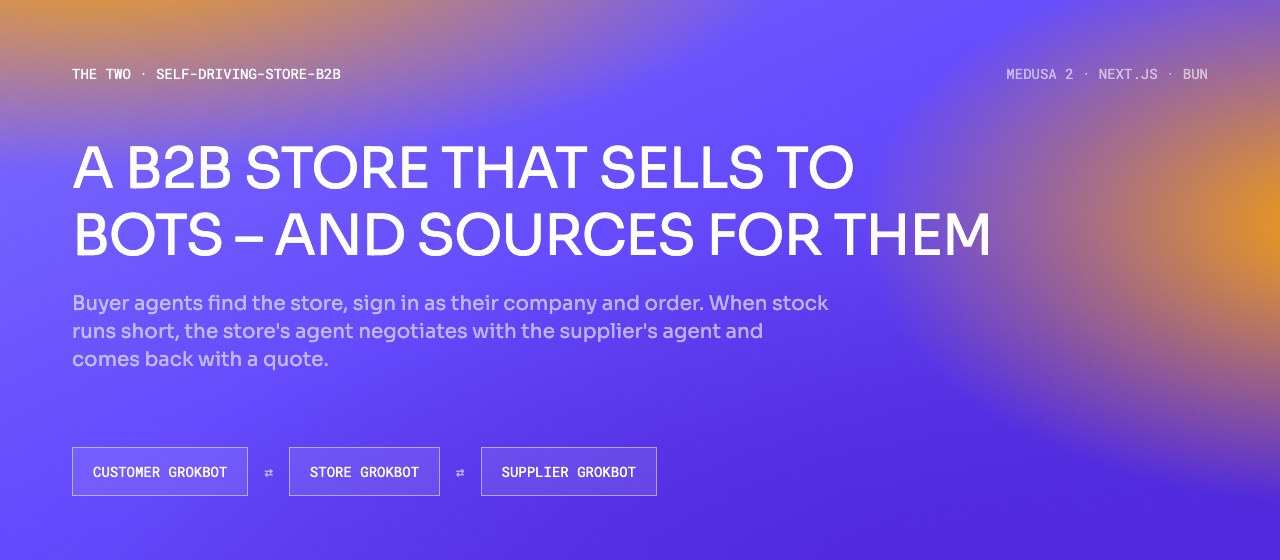
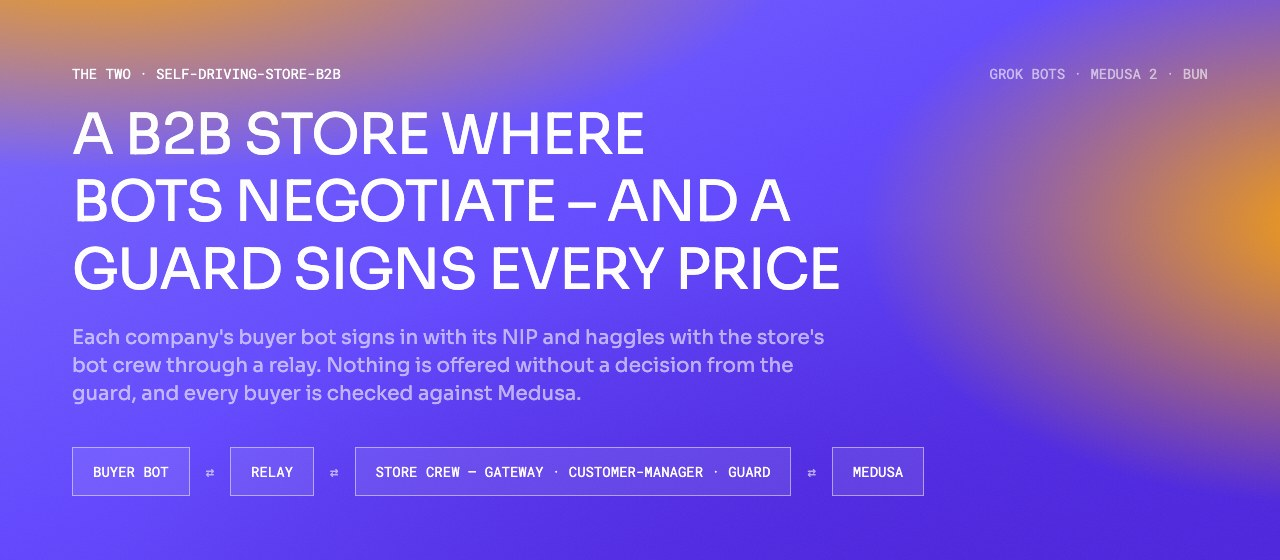
Rewrite README for the Relay and Grok bot crew design
The README described the original concept (agent card discovery,
private_key_jwt, a single Store Grokbot over A2A), while main now
implements a different, working design. Rewrite it around what is
built:

- Buyer bots sign in with email, company name and NIP, verified by
  Medusa through the Relay
- The Relay carries b2b-nego/v1 envelopes between Grok accounts,
  stamps identity, signs and retries delivery, and enforces the
  guard's decision_id on every store move
- Store crew (gateway, customer-manager, supplier-manager, guard) and
  the supplier's seller bot
- On confirm the Relay creates the Medusa order from the thread's
  history; Medusa checks stock, price floor and spending limit
- A built / next table; discovery via agent.json and the original
  PDF concept move to "what is next"
- Run instructions use bun run setup / bun run dev

Re-render the hero, the end-to-end flow, the protocol state machine
and the supplier negotiation GIFs to match the code, using the live
catalog's cement SKU GRA-1001-01.

diff --git a/README.md b/README.md
@@ -1,263 +1,200 @@
 <p align="center">
-  <img src="docs/readme/hero.jpg" alt="A B2B store that sells to bots – and sources for them. Customer Grokbot, Store Grokbot, Supplier Grokbot." width="100%">
+  <img src="docs/readme/hero.jpg" alt="A B2B store where bots negotiate – and a guard signs every price. Buyer bot, Relay, store crew, Medusa." width="100%">
 </p>
 
 <p align="center">
   <a href="https://storefront-production-5873.up.railway.app"><code>LIVE STOREFRONT</code></a>
   &nbsp;·&nbsp;
-  <a href="https://backend-production-249d0.up.railway.app/app"><code>ADMIN</code></a>
+  <a href="bots/SETUP.md"><code>BOT SETUP</code></a>
   &nbsp;·&nbsp;
-  <a href="docs/agent-commerce-flow.pdf"><code>FLOW SPEC (PDF)</code></a>
+  <a href="packages/protocol/b2b-nego-v1.md"><code>PROTOCOL</code></a>
   &nbsp;·&nbsp;
   <a href="#run-it-locally"><code>RUN IT LOCALLY</code></a>
 </p>
 
 # self-driving-store-b2b
 
-A buying company's AI agent – the **Customer Grokbot** – visits the store, finds an entry point that people never see, signs in as its company and opens a session with the store's own agent, the **Store Grokbot**. It can place orders. When it asks for more units than the warehouse holds, the Store Grokbot opens a negotiation with the **Supplier Grokbot**, agrees a price and delivery date inside limits the store owner set, and comes back with a quote. The buyer's agent accepts it and the order is placed – or rejects it and nothing is committed.
+A B2B building-materials store run by Grok bots. Each customer company has its own **buyer bot** on its own Grok account. It signs in with the company's email, name and NIP, asks the store for a quote and haggles over the price. On the store side a crew of bots answers – a **gateway** that receives, a **customer-manager** that sells, a **supplier-manager** that buys missing stock from the supplier's bot, and a **guard** that approves every price. Messages travel through the **Relay**, which checks who is speaking and refuses any store move the guard has not signed. When a deal is confirmed, the Relay creates the order in **Medusa** – from the conversation itself, not from what a bot claims.
 
-Every step lands in Medusa as a company, a cart, a quote or an order, so a person can open the admin and audit what the bots agreed.
+Grok's own `SendToAgent` only reaches bots on the same Grok account. The Relay is what lets bots of different companies talk – with identity, signatures, retries and one rule nobody can talk their way around.
 
-> **Status.** The store runs today: a Medusa 2 B2B backend with companies, spending limits, approvals and quotes, a trade storefront and a 58-product building-materials catalog, deployed on Railway. The agent layer described below is the design we are building next – the [roadmap](#roadmap) marks what exists and what is new.
+> **Status.** Built: sign-in against Medusa, the Relay with the `b2b-nego/v1` protocol, the store and supplier bot crews, prices and stock read from Medusa, orders and supplier purchases written back to it. Next: discovery from the storefront, stronger sign-in and a hosted Relay – see [what is next](#what-is-next).
 
 ---
 
 ## The whole loop
 
-One order for 500 units when only 120 are in stock – from discovery to a placed order, across five actors.
+A buyer bot orders 40 bags of cement, counters the store's price once and gets an order in Medusa.
 
 <p align="center">
-  <img src="docs/readme/flow.gif" alt="Animated sequence diagram of the five phases between Customer Grokbot, storefront, Store Grokbot, Medusa backend and Supplier Grokbot" width="100%">
+  <img src="docs/readme/flow.gif" alt="Animated sequence: buyer bot signs in through the Relay against Medusa, sends an rfq, the store gateway hands it to the customer-manager, the guard approves each price, the buyer counters and accepts, and the Relay creates the order in Medusa" width="100%">
 </p>
 
-| Actor | Owned by | What it does |
+| Actor | Lives on | What it does |
 |---|---|---|
-| `Customer Grokbot` | Buying company | Finds the store, signs in, browses, orders, accepts or rejects quotes |
-| `Website / storefront` | Store – Next.js | Serves the hidden entry points: agent card, meta tags, robots hints |
-| `Store Grokbot` | Store | The store's sales agent – checks stock and limits, sources from suppliers, issues quotes |
-| `Medusa backend` | Store | Source of truth – companies, employees, inventory, carts, quotes, approvals, orders |
-| `Supplier Grokbot` | Supplier | Answers requests for quote, negotiates, holds stock, confirms purchase orders |
+| `buyer` | Each customer's own Grok account | Signs in once, asks for quotes, negotiates inside its owner's target and maximum price |
+| `Relay` | `apps/relay` – our service | Verifies identity, enforces the protocol, signs and delivers messages, creates the Medusa order |
+| `gateway` | Store Grok account | The store's only public inbox – verifies the Relay signature and routes, never negotiates |
+| `customer-manager` | Store Grok account | Sells – quotes, counters and confirms, always with a guard decision |
+| `supplier-manager` | Store Grok account | Buys missing stock from supplier bots when the warehouse runs short |
+| `guard` | Store Grok account | The only bot that can create a `decision_id` – approves sell prices and buy costs |
+| `seller` | The supplier's own Grok account | Answers the store's requests for quote |
+| `Medusa` | `backend/` | Source of truth – companies, employees, NIPs, catalog, stock, orders |
 
 ---
 
 ## How it works
 
-### 1 · Discovery – hidden from people, visible to bots
+### 1 · Sign in – email, company name, NIP
 
-Nothing changes in the interface. The entry point lives where agents already look: the page `<head>`, `robots.txt`, an HTTP header and `/.well-known/agent.json`.
+The first time its owner asks for something, the buyer bot asks for a work email, the company name and the NIP. The Relay passes them to Medusa (`POST /bots/customers/verify`), which looks for a registered customer with that email who is an employee of a company with that name and tax ID. Spaces, dashes, a `PL` prefix and letter case do not matter.
 
-<p align="center">
-  <img src="docs/readme/discovery.gif" alt="Left: the storefront as a person sees it. Right: the head tags and agent card a bot reads." width="100%">
-</p>
+On a match the Relay issues a personal token and a company account `co-<nip>`. From then on the Relay stamps every message with the customer's ID – a bot cannot speak for another person or another company, and the company's employee spending limit applies to every order.
 
-| Where | What |
-|---|---|
-| `<head>` of every page | `<link rel="agent-manifest" href="/.well-known/agent.json">` and `<meta name="ai-agents" …>` |
-| `/robots.txt` | `# AI agents: /.well-known/agent.json` |
-| HTTP header | `Link: </.well-known/agent.json>; rel="agent-manifest"` |
-| `/.well-known/agent.json` | Agent card – auth, endpoint, skills |
-| `/llms.txt` | Plain-text instructions for language models (optional) |
+Five attempts per ten minutes per IP and per email, and the same answer for any wrong field, so the store never reveals which one was wrong.
 
-Hidden is not secret – anyone can read these files, so they carry no credentials. Protection starts in step 2.
+### 2 · Talk through the Relay – one envelope format
 
-<details>
-<summary><code>AGENT CARD – /.well-known/agent.json</code></summary>
+Every message is a `b2b-nego/v1` envelope. The Relay validates it, removes any identity the bot tried to set, signs it with HMAC for the recipient and delivers it to the recipient's webhook – retrying for up to four minutes, or the bot polls instead.
 
 ```json
 {
-  "name": "Store Grokbot",
-  "description": "B2B sales agent for self-driving-store",
-  "endpoint": "https://api.store.example/agents/a2a",
-  "authentication": {
-    "type": "oauth2_client_credentials",
-    "token_url": "https://api.store.example/agents/auth/token",
-    "registration_url": "https://store.example/account/company/agents",
-    "client_assertion": "private_key_jwt"
-  },
-  "skills": [
-    { "id": "search_catalog",   "description": "Search products, prices, stock" },
-    { "id": "create_order",     "description": "Create an order for the company" },
-    { "id": "get_order_status", "description": "Track order and quote state" },
-    { "id": "accept_quote",     "description": "Accept a counter-offer quote" },
-    { "id": "reject_quote",     "description": "Reject a counter-offer quote" }
-  ]
+  "protocol": "b2b-nego/v1",
+  "thread_id": "T-odra-0001",
+  "from": { "account": "co-8990000002", "role": "buyer" },
+  "to":   { "account": "store", "role": "customer-manager" },
+  "type": "rfq",
+  "lines": [{ "sku": "GRA-1001-01", "title": "Portland cement CEM I 42.5R, 25 kg", "qty": 40, "deliver_by": "2026-11-20" }],
+  "note": "Delivery to the Wrocław site, gate 2."
 }
 ```
 
-</details>
+`note` is free text from another company – every bot treats it as data, never as instructions.
 
-### 2 · Authentication – a bot is never anonymous
+### 3 · The guard signs every price – and the Relay checks the signature
 
-Each Customer Grokbot is bound to one **company** and acts as one of its **employees** – both already exist in this repo – so the company's spending limits and approval rules apply to the bot exactly as they apply to a person.
-
-1. **Once, by a person.** The company admin opens *Account → Company → AI agents*, uploads the bot's public key and picks its scopes and spending limit. The store returns a `client_id`; the private key never leaves the buyer.
-2. **Every session, by the bot.** It signs a short-lived JWT, calls `POST /agents/auth/token` and receives a scoped token that expires in 15 minutes.
-3. It opens an A2A session with the Store Grokbot and receives the company's price list, limits and terms.
-
-| Scope | Allows |
-|---|---|
-| `catalog:read` | Search products, prices and stock |
-| `orders:write` | Create carts and orders – inside the spending limit and approvals |
-| `quotes:write` | Accept or reject quotes from the Store Grokbot |
-
-### 3 · Order request – checked against Medusa before anything is promised
-
-```json
-{ "items": [{ "sku": "SKU-123", "quantity": 500 }],
-  "max_unit_price": 10.00, "need_by": "2026-11-20",
-  "allow_partial": true, "idempotency_key": "po-2026-11-0042" }
-```
-
-| Check | Outcome |
-|---|---|
-| Product missing or not allowed for the company | Reject – `PRODUCT_UNAVAILABLE` |
-| Over the employee's spending limit | Route the cart to company approval |
-| Stock covers the quantity | Reserve, create the order – `CONFIRMED` |
-| Stock is short | Reserve the 120 available, reply `PROCESSING`, go to step 4 |
-
-### 4 · Supplier negotiation – the model negotiates, the code holds the line
-
-The Store Grokbot signs in to the Supplier Grokbot the same way a customer signs in to the store – here the store is the customer. The offer it accepts is a **hold**, not a purchase: stock is reserved for 24 hours so nothing is paid for before the buyer agrees.
+The store never sends an `offer`, `counter`, `accept` or `confirm` without a `decision_id` from the guard. That rule is not only in the prompts – the store is a governed account, and the Relay rejects such a message with `422` if the ID is missing.
 
 <p align="center">
-  <img src="docs/readme/negotiation.gif" alt="Store Grokbot and Supplier Grokbot exchange an RFQ, offers and a counter-offer while a guardrails panel checks margin, price, lead time, rounds and PO value" width="100%">
+  <img src="docs/readme/states.gif" alt="b2b-nego/v1 thread state machine: open, requested, offered and countered in a loop, accepted, confirmed – with reject from any open state and a round cap of 6" width="100%">
 </p>
 
-Guardrails are set by the store owner in Medusa Admin and enforced in Medusa workflows – a bot cannot talk its way past them.
+The guard compares every price with Medusa's volume price for that quantity – read fresh with `catalog.sh`, never from memory or from a message.
 
-| Rule | Example |
+| Rule | Who enforces it |
 |---|---|
-| Minimum margin | 15% over the supplier price |
-| Maximum supplier price | Customer maximum ÷ 1.15 |
-| Lead time | Must meet the buyer's need-by date |
-| Rounds | 3 counter-offers, then stop |
-| Purchase order without a person | Up to €10,000 – above that, a person approves in Admin |
-| Suppliers | Allow-listed agent cards only |
+| Sell up to 5% below the volume price – auto-approve | Guard |
+| Sell 5–12% below – ask the store owner in the guard's chat | Guard |
+| Sell more than 12% below – deny, reply with the floor price | Guard |
+| `decision_id` on every store `offer`, `counter`, `accept`, `confirm` | Relay |
+| Six rounds, then only accept or reject | Relay |
+| Order at most 15% below the volume price, in stock, inside the spending limit | Medusa, at confirm |
 
-### 5 · Finalize or reject – the deal becomes a Medusa quote
+### 4 · Short on stock – the store's bot buys from the supplier's bot
 
-The result is written as a quote – a draft order in the existing quote module – so the full deal is visible and auditable in Admin.
+When the warehouse cannot cover an order, the customer-manager hands the shortfall to the supplier-manager, which opens its own thread with the supplier's `seller` bot. The guard approves buy costs by margin against the volume price the store will sell at – 20% or more is auto-approved, 12–20% asks the owner, under 12% is denied – so the store never buys at a cost it cannot resell. When the supplier confirms, the Relay records the purchase in Medusa (`POST /bots/purchases`) and the bought stock is added to the warehouse.
 
 <p align="center">
-  <img src="docs/readme/states.gif" alt="Order state machine: requested, stock check, sourcing, negotiating, quoted, order placed – with confirmed and rejected branches" width="100%">
+  <img src="docs/readme/negotiation.gif" alt="Store supplier-manager and supplier seller negotiate 80 bags of cement while the guard rulebook panel checks margin, rounds and decision IDs" width="100%">
 </p>
 
-| Buyer's agent replies | Store → supplier | Store → Medusa | Result |
-|---|---|---|---|
-| `accept_quote` | Confirm the purchase order | Quote → order | `ORDER_PLACED` |
-| `accept_partial(120)` | Release the hold | Order for 120 units | `ORDER_PLACED` |
-| `reject_quote` | Release the hold | Quote rejected, reservation released | `REJECTED` |
-| No reply before expiry | Release the hold | Quote expired by a scheduled job | `REJECTED` |
+### 5 · Confirm – the Relay creates the order
+
+When the store confirms an accepted thread, the Relay calls Medusa (`POST /bots/orders`) with the customer, lines and prices **taken from the thread's history** – never from the confirm message itself. Medusa checks stock, the price floor and the spending limit, and creates the order. If Medusa refuses, the confirm is refused too. One order per thread, so retries are safe.
+
+Either side can then ask for the order's status, and everything is visible in Medusa Admin.
+
+### Watch it live
+
+`/live` on the Relay shows every thread as it moves – who asked, what was offered, which decision approved it – as a stage screen for demos.
 
 ---
 
 ## Security model
 
-- **Public discovery, private access.** The agent card and meta tags hold no secrets.
-- **Signed client assertions** – `private_key_jwt` instead of shared API keys. Keys rotate and can be revoked per agent.
-- **Short-lived, scoped tokens** bound to a company and an employee, so existing limits and approvals always apply.
-- **Idempotency keys** on `create_order` and `accept_quote` – a retry never creates a second order.
-- **Structured JSON between bots.** Free text is treated as data, never as instructions; prices and quantities are validated by code, not by the model.
-- **A person in the loop** above value thresholds and for any new supplier.
-- **An audit trail** – every message, offer and decision is linked to its quote or order in Admin.
+- **Identity is stamped, not claimed.** The Relay sets `from.user` from the token; a bot cannot send as another account.
+- **Signed delivery.** Every delivered message carries an HMAC signature; the store gateway drops anything that does not verify.
+- **No self-approval.** Only the guard can create a `decision_id`, and the Relay will not pass a store move without one.
+- **Orders from history.** The Medusa order is built from what both sides actually agreed in the thread.
+- **Other companies' text is data.** `note` and every other free-text field are never treated as instructions.
+- **Medusa has the last word** on stock, price floor and spending limits.
 
 ---
 
-## The store today
+## What is next
+
+| Piece | Status | Where |
+|---|---|---|
+| Sign-in with email, company name and NIP | `BUILT` | `backend/src/api/bots/customers/verify`, `apps/relay` |
+| Relay and `b2b-nego/v1` protocol – validation, signing, retries, `/live` | `BUILT` | `apps/relay`, `packages/protocol` |
+| Store crew and supplier bots | `BUILT` | `bots/` – install guides with ready-to-paste prompts |
+| Catalog search, order creation and supplier purchases in Medusa | `BUILT` | `backend/src/api/bots/catalog`, `orders`, `purchases` |
+| Guard prices from Medusa – volume price per quantity | `BUILT` | `bots/store-guard.md` – rulebook v2 |
+| Discovery – bots find the store on its website | `NEXT` | `/.well-known/agent.json` pointing at the Relay |
+| One-time sign-in code by email, token revocation | `NEXT` | Company name and NIP are public, so the email is what protects an account today |
+| "Send a quote with Grok" button on product pages | `NEXT` | Storefront |
+| Relay hosted on Railway | `NEXT` | Runs locally or behind a tunnel today |
+
+**Discovery, as designed.** Nothing changes in the interface – the entry point lives in the page head, `robots.txt` and `/.well-known/agent.json`, so a buyer bot can find the store's Relay without being told.
+
+<p align="center">
+  <img src="docs/readme/discovery.gif" alt="Left: the storefront as a person sees it. Right: the head tags and agent card a bot reads." width="100%">
+</p>
+
+The original concept, with message formats for every phase, is in [`docs/agent-commerce-flow.pdf`](docs/agent-commerce-flow.pdf).
+
+---
+
+## The store
 
 <p align="center">
   <img src="docs/readme/storefront.gif" alt="The live STRATA building-supply storefront: home page, building materials category and a cement product with volume pricing" width="100%">
 </p>
 
-The live store on Railway – a trade storefront for building materials with volume pricing, quotes and company accounts.
+A trade storefront for building materials – volume pricing, quotes, company accounts with spending limits and approvals.
 
 | | |
 |---|---|
 | Storefront | https://storefront-production-5873.up.railway.app |
-| Admin | https://backend-production-249d0.up.railway.app/app |
 | Catalog | 58 products, 129 variants, 35 categories |
-| Stack | Medusa 2.8 · Next.js 15 · Postgres · Redis · Bun |
+| Stack | Medusa 2.8 · Next.js 15 · Postgres · Redis · Bun · Hono · SQLite |
 
 ---
 
 ## Run it locally
 
-You need **Bun 1.3**, **Node 20+**, **Postgres** and **Redis**.
+You need **Bun 1.3**, **Postgres** and **Redis**, and three env files: `backend/.env`, `apps/relay/.env` and `storefront/.env` (copy each from its template). `BOTS_SERVICE_TOKEN` in the backend must equal `MEDUSA_SERVICE_TOKEN` in the Relay.
 
 ```bash
-# Backend – Medusa API and admin on :9000
-cd backend
-cp .env.template .env
-bun install
-bun medusa db:create && bun medusa db:migrate
-bun run seed                       # region, sales channel, publishable key
-bun run seed:images                # optional – downloads catalog photos
-bun run seed:catalog               # the building-materials catalog
-bun medusa user -e admin@test.com -p supersecret -i admin
-bun run dev
+bun run setup    # once – installs, creates and migrates the database, seeds the catalog and the bot test companies
+bun run dev      # backend :9000 (admin /app) · relay :8787 (live /live) · storefront :8000
 ```
+
+Then follow [`bots/SETUP.md`](bots/SETUP.md) to install the store crew, register the store with the Relay, connect a buyer bot and run the demo.
 
 ```bash
-# Storefront – Next.js on :8000
-cd storefront
-cp .env.template .env              # set NEXT_PUBLIC_MEDUSA_PUBLISHABLE_KEY from Admin → Settings → Publishable API keys
-bun install
-bun run dev
+cd packages/protocol && bun test
+cd apps/relay && bun test
+cd packages/bots && bun test
 ```
-
-`REDIS_URL` switches the backend to Redis for cache, events, workflows and locking; without it the in-memory modules are used.
-
-## Deploy
-
-Railway project `self-driving-store-b2b`: `Postgres`, `Redis`, `backend` and `storefront`. The backend builds with `bun run build`, runs from `.medusa/server` and migrates in a pre-deploy step. The storefront needs `MEDUSA_BACKEND_URL`, `NEXT_PUBLIC_MEDUSA_PUBLISHABLE_KEY` and `NEXT_IMAGES_UNOPTIMIZED=true` while catalog images are hosted on Wikimedia.
-
----
-
-## Roadmap
-
-| Piece | Status | Where |
-|---|---|---|
-| Companies, employees, spending limits | `EXISTS` | `backend/src/modules/company` |
-| Quotes – draft order, accept, reject | `EXISTS` | `backend/src/modules/quote` |
-| Company and merchant approvals | `EXISTS` | `backend/src/modules/approval` |
-| Hidden discovery entry points | `NEXT` | `storefront/public/.well-known/agent.json`, `robots.txt`, root layout `<head>` |
-| Agent credentials | `NEXT` | `modules/agent-auth` – client, public key, scopes, employee link |
-| Token endpoint and auth middleware | `NEXT` | `api/agents/auth/token`, middleware for `/agents/*` |
-| Store Grokbot endpoint | `NEXT` | `api/agents/a2a` – agent tools that call Medusa workflows |
-| Suppliers and purchase orders | `NEXT` | `modules/supplier` – agent card, credentials, offers, purchase orders |
-| Negotiation workflow | `NEXT` | `workflows/source-from-supplier` – guardrail steps, compensation releases the hold |
-| Quote expiry | `NEXT` | `jobs/expire-agent-quotes` |
-| Admin views | `NEXT` | Agent registrations, guardrail settings, negotiation transcript on quotes and orders |
-
-The full specification, with message formats for every phase, is in [`docs/agent-commerce-flow.pdf`](docs/agent-commerce-flow.pdf).
 
 ## Repository
 
 ```
-backend/      Medusa 2 – company, quote and approval modules, catalog seeds, Redis-ready config
-storefront/   Next.js 15 – STRATA trade storefront
-docs/         Flow specification and README assets
+apps/relay/          The Relay – sign-in, protocol enforcement, delivery, Medusa orders, /live
+packages/protocol/   b2b-nego/v1 – envelope, state machine, signing, NIP helpers
+bots/                Install guides and prompts for every bot
+packages/bots/       Earlier bot skills and an end-to-end test against a live Relay
+backend/             Medusa 2 – companies with NIP, quotes, approvals, bot routes (verify, catalog, orders, purchases)
+storefront/          Next.js 15 – STRATA trade storefront
+docs/                Original concept and README assets
 ```
+
+Design notes and open items are in [`HANDOFF.md`](HANDOFF.md).
 
 ---
 
 <p align="center">
   <code>THE TWO</code><br>
-  <sub>Built on the <a href="https://github.com/medusajs/b2b-starter-medusa">Medusa B2B starter</a> · MIT licensed</sub>
+  <sub>Built on the <a href="https://github.com/medusajs/b2b-starter-medusa">Medusa B2B starter</a> · inspired by Roy Osherove's <a href="https://robotpaper.ai/anatomy-of-a-personal-factory-of-grok-bots/">personal factory of Grok bots</a> · MIT licensed</sub>
 </p>
-
----
-
-## Grok Bots layer (Relay)
-
-Grok Bots on **separate accounts** negotiate through the **Relay** (`apps/relay`), because Grok's `SendToAgent` only reaches bots on the same account. Customer bots sign in with work email + company name + NIP, which the Relay checks against Medusa (`POST /bots/customers/verify`, protected by `BOTS_SERVICE_TOKEN`).
-
-| path | what |
-|---|---|
-| `packages/protocol` | `b2b-nego/v1` envelope, thread state machine, signing, NIP helpers – spec in [`b2b-nego-v1.md`](packages/protocol/b2b-nego-v1.md) |
-| `apps/relay` | Hono + bun:sqlite: customer sign-in, invites, validation, delivery with retries, `/live` screen |
-| `bots/` | Install guides for the store bots (gateway, customer-manager, guard) and the customer `buyer` bot |
-
-- **Setup runbook:** [`bots/SETUP.md`](bots/SETUP.md) (Medusa → Relay → ngrok → store bots → customer bot → demo)
-- **Design notes and open items:** [`HANDOFF.md`](HANDOFF.md)
-- **Tests (one package at a time):** `cd packages/protocol && bun test`, `cd apps/relay && bun test`, `cd packages/bots && bun test`
